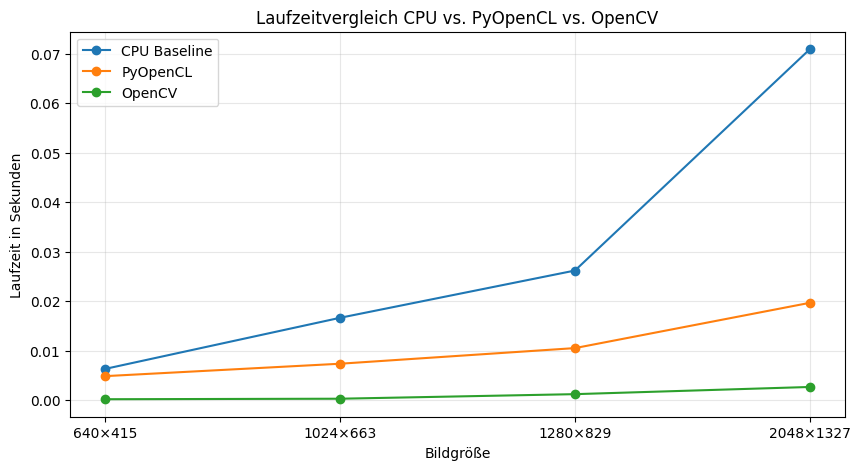
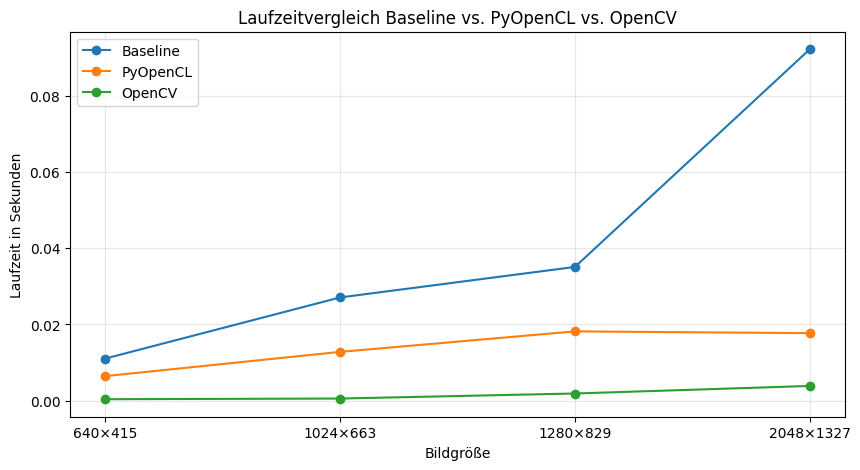
plots foxed

diff --git a/README.md b/README.md
@@ -104,15 +104,6 @@ d.
 <table width="100%">
   <tr>
     <td align="center">
-      <img src="images_output/Laptop2_runtime.png" width="70%">
-    </td>
-  </tr>
-  <tr>
-    <td align="center">Laptop 2: Laufzeitvergleich Baseline vs. PyOpenCL</td>
-  </tr>
-
-  <tr>
-    <td align="center">
       <img src="images_output/Laptop2_runtime2.png" width="70%">
     </td>
   </tr>